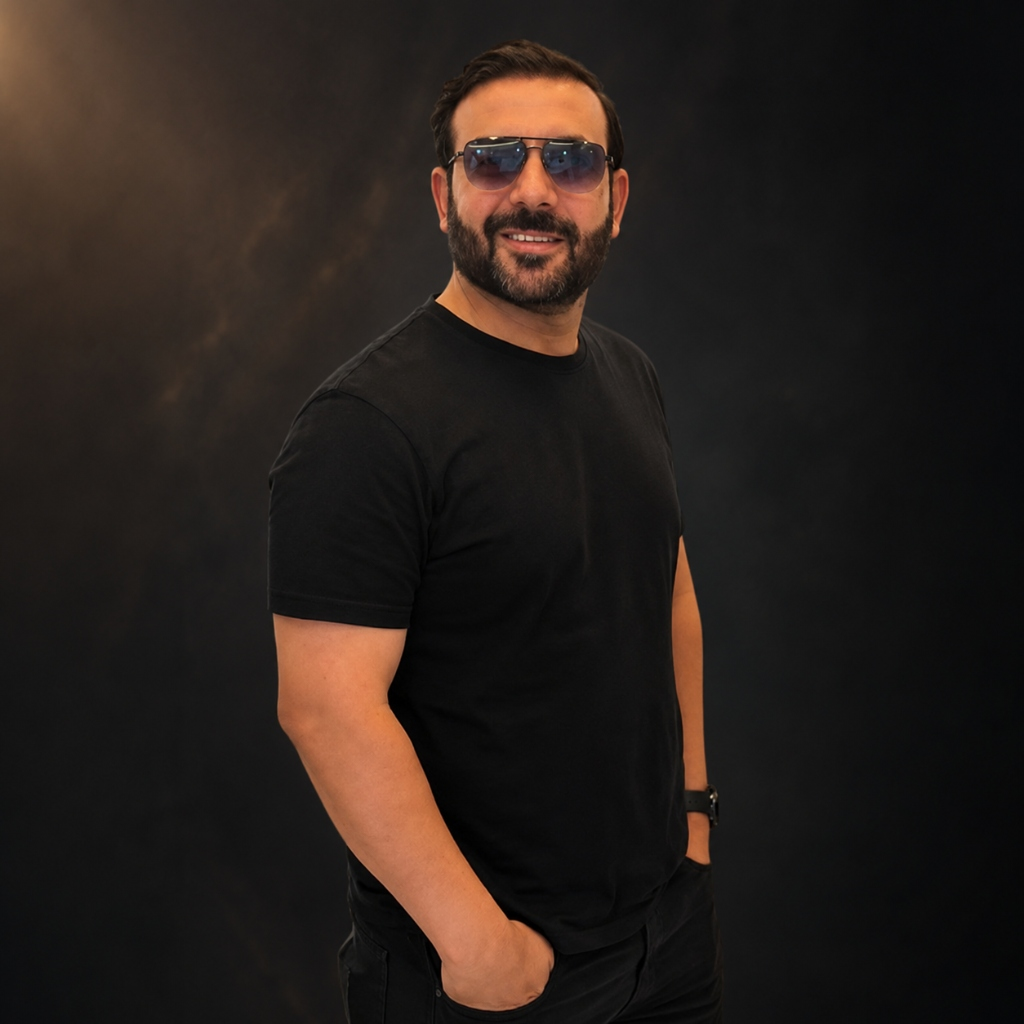
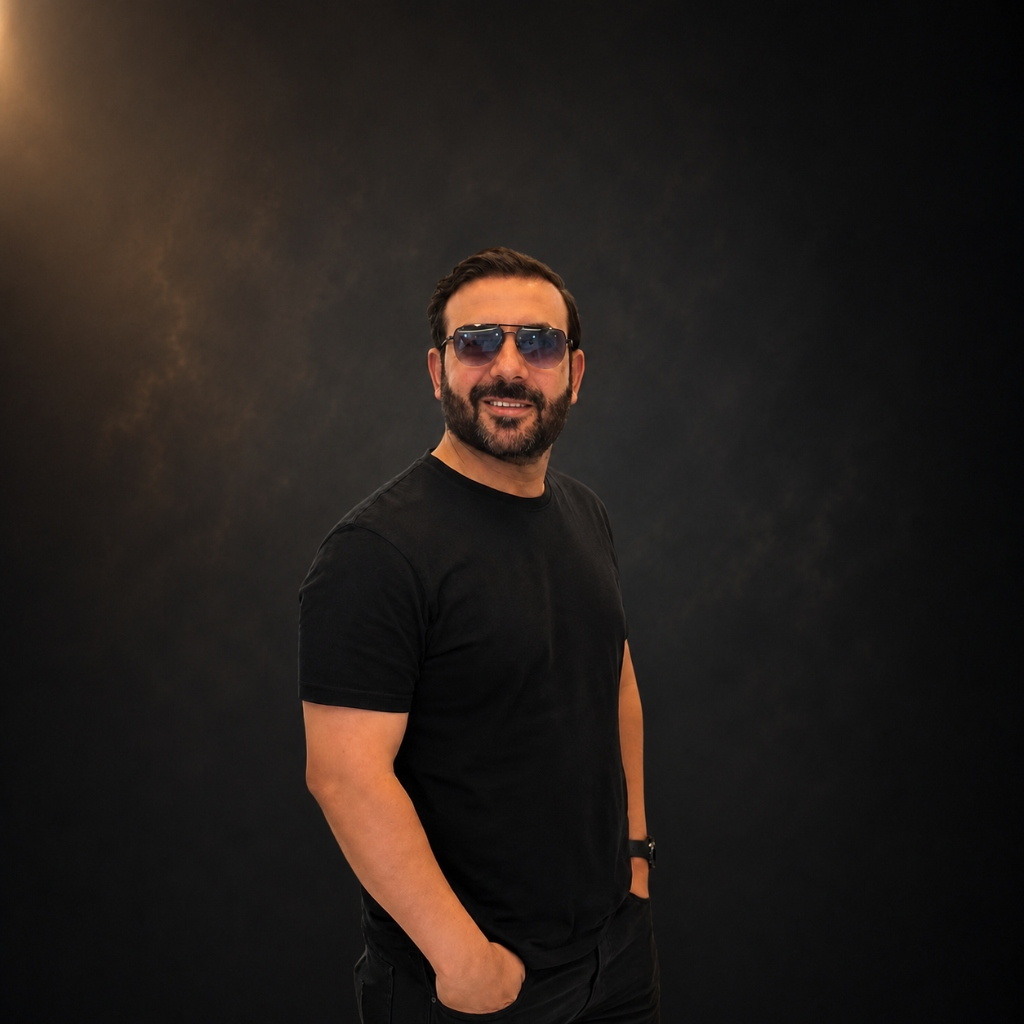
Replace story section image with new zoomed out version and update cache-buster

diff --git a/index.html b/index.html
@@ -105,7 +105,7 @@
       <div class="about-visual">
         <div class="about-image-wrapper premium-image-frame">
           <div class="premium-image-inner">
-            <img src="assets/images/tahir_khan_story.jpg?v=1.2" alt="Tahir Khan Business Portrait" class="about-portrait">
+            <img src="assets/images/tahir_khan_story.jpg?v=1.3" alt="Tahir Khan Business Portrait" class="about-portrait">
           </div>
         </div>
       </div>